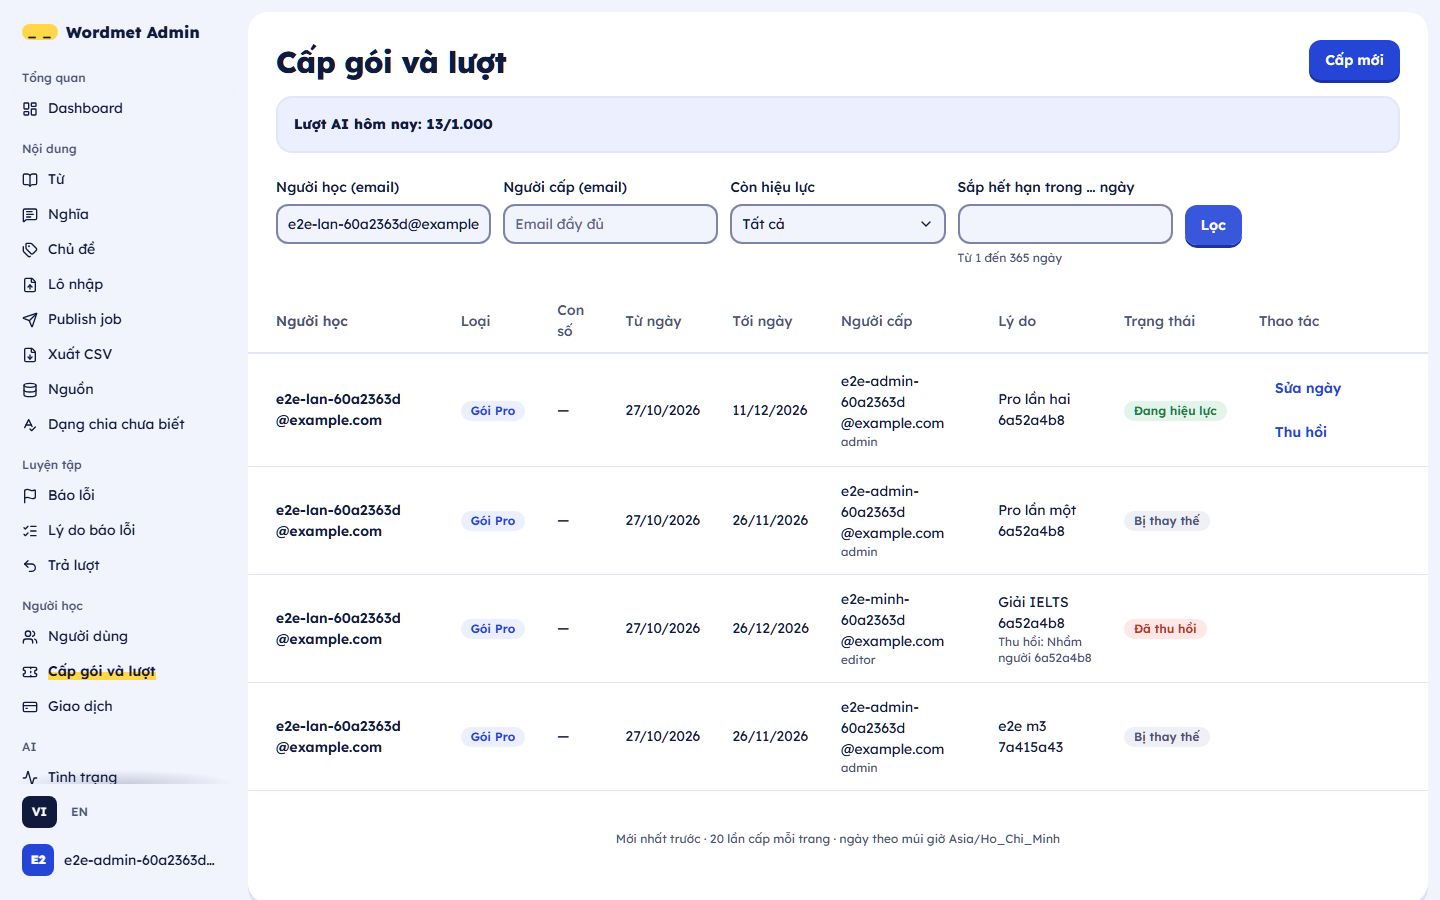
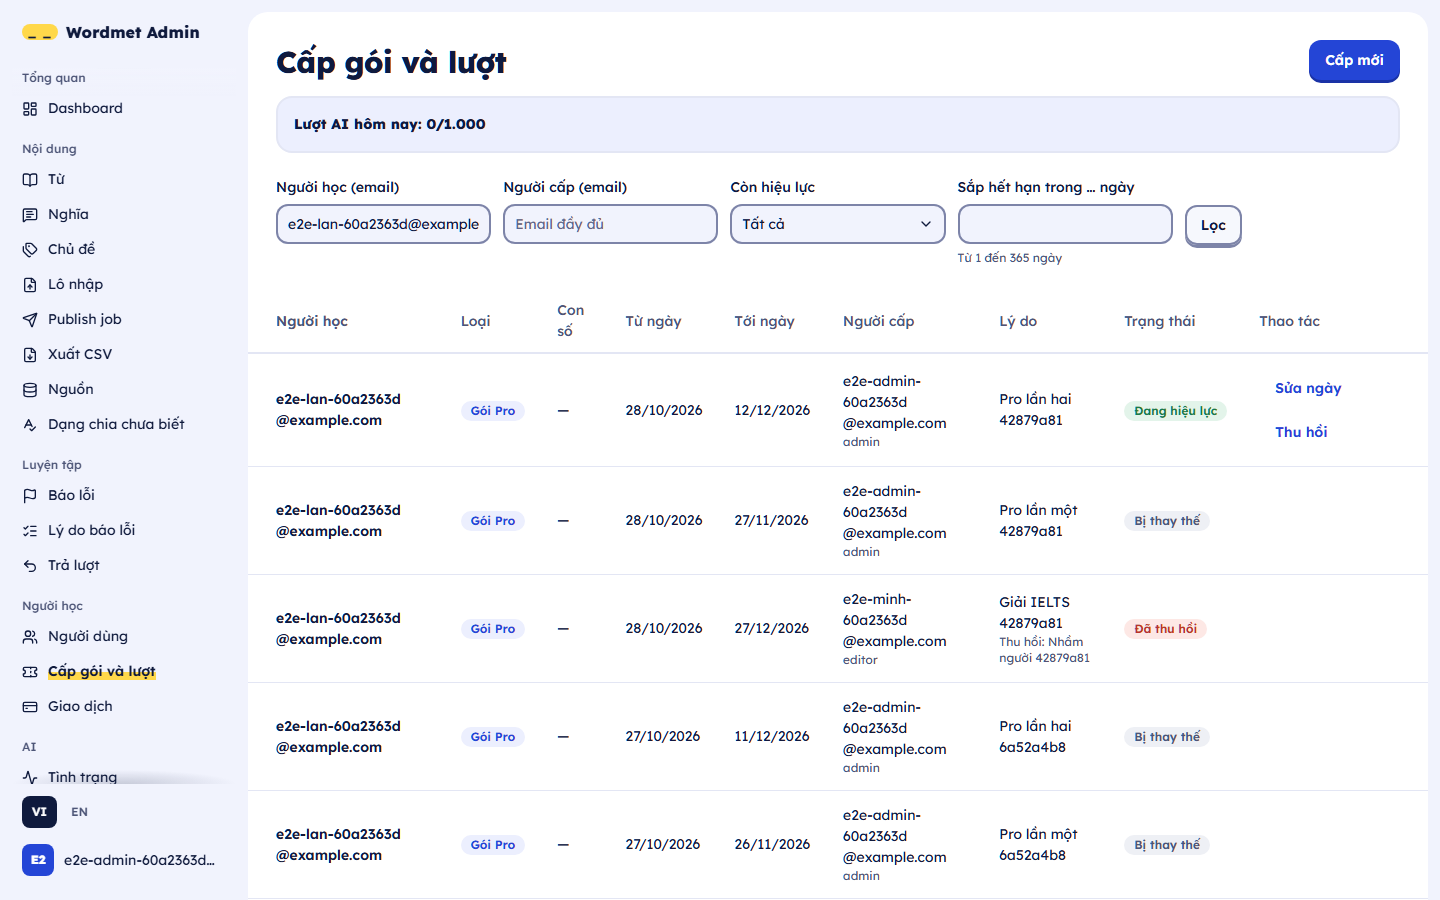
fix(admin): tidy the grants and users pages after the m4 review

diff --git a/apps/admin/src/features/entitlements/GrantsPage.test.tsx b/apps/admin/src/features/entitlements/GrantsPage.test.tsx
@@ -3,6 +3,7 @@ import userEvent from '@testing-library/user-event';
 import { describe, expect, it } from 'vitest';
 import vi from '../../../messages/vi.json';
 import { makeMe, problem, rateLimited, type Call } from '../../auth/test-support';
+import { vnDay } from './entitlements-api';
 import { ME_ADMIN, renderApp } from '../staff/test-utils';
 
 const t = vi.entitlements;
@@ -101,6 +102,34 @@ describe('grants list', { timeout: 20_000 }, () => {
     await userEvent.click(await screen.findByRole('button', { name: vi.common.loadMore }));
     expect((await screen.findAllByText('binh@example.com')).length).toBeGreaterThan(0);
     expect(r.count('GET', '/v1/admin/entitlements/grants?page_size=20&page_token=tok-2')).toBe(1);
+  });
+
+  it('review: [Lọc] is a secondary button, so [Cấp mới] stays the one primary action', async () => {
+    renderApp('/entitlements', { [LIST]: () => json(page([grant()])), [USAGE]: () => json(usage) });
+    const apply = await screen.findByRole('button', { name: t.filters.apply });
+    expect(apply.className).toContain('ring-border-strong');
+    expect(apply.className).not.toContain('text-on-primary');
+  });
+
+  it('review: opening and closing [Cấp mới] keeps the list filters in the URL', async () => {
+    const r = renderApp('/entitlements?active=false', { [LIST.replace('page_size=20', 'active=false&page_size=20')]: () => json(page([grant({ status: 'expired' })])), [USAGE]: () => json(usage) });
+    await userEvent.click((await screen.findAllByRole('button', { name: t.new.open }))[0]!);
+    const dialog = await screen.findByRole('dialog', { name: t.new.title });
+    expect(r.router.state.location.pathname).toBe('/entitlements/new');
+    expect(r.router.state.location.search).toBe('?active=false');
+    await userEvent.click(within(dialog).getByRole('button', { name: vi.common.cancel }));
+    await waitFor(() => expect(r.router.state.location.pathname).toBe('/entitlements'));
+    expect(r.router.state.location.search).toBe('?active=false');
+  });
+
+  it('review: when the AI uses of today fail to load, the error has [Thử lại] that asks again', async () => {
+    let fail = true;
+    const r = renderApp('/entitlements', { [LIST]: () => json(page([grant()])), [USAGE]: () => (fail ? problem(500, 'internal') : json(usage)) });
+    expect(await screen.findByText(t.aiTodayError)).toBeInTheDocument();
+    fail = false;
+    await userEvent.click(screen.getByRole('button', { name: vi.common.retry }));
+    expect(await screen.findByText('Lượt AI hôm nay: 812/1.000')).toBeInTheDocument();
+    expect(r.count('GET', '/v1/admin/entitlements/ai-usage')).toBe(2);
   });
 
   it('§6.11: an empty list says nothing was granted yet', async () => {
@@ -285,6 +314,19 @@ describe('edit-dates dialog', { timeout: 20_000 }, () => {
     await userEvent.click(within(dialog).getByRole('button', { name: t.editDates.confirm }));
     await waitFor(() => expect(calls(r.calls, 'PATCH', '/v1/admin/entitlements/grants/')).toHaveLength(1));
     expect(calls(r.calls, 'PATCH', '/v1/admin/entitlements/grants/')[0]!.body).toEqual({ starts_at: '2027-01-05T00:00:00+07:00', reason: 'Dời lịch' });
+  });
+
+  it('review: moving "Từ ngày" to today sends now, not 00:00, so the API start skew does not refuse it', async () => {
+    const scheduled = grant({ status: 'scheduled', starts_at: '2099-12-31T17:00:00.000Z', ends_at: '2100-01-31T17:00:00.000Z' });
+    const r = renderApp('/entitlements', { [LIST]: () => json(page([scheduled])), [PATCH(G1)]: () => json(scheduled), [USAGE]: () => json(usage) });
+    const dialog = await openEdit();
+    const before = Date.now();
+    fireEvent.change(within(dialog).getByLabelText(t.editDates.from), { target: { value: vnDay(new Date()) } });
+    await userEvent.type(within(dialog).getByLabelText(t.editDates.reason), 'Cho chạy ngay');
+    await userEvent.click(within(dialog).getByRole('button', { name: t.editDates.confirm }));
+    await waitFor(() => expect(calls(r.calls, 'PATCH', '/v1/admin/entitlements/grants/')).toHaveLength(1));
+    const sent = (calls(r.calls, 'PATCH', '/v1/admin/entitlements/grants/')[0]!.body as { starts_at: string }).starts_at;
+    expect(Math.abs(new Date(sent).getTime() - before)).toBeLessThan(60_000);
   });
 
   it('§6.11: 409 grant-not-active → "Lần cấp này đã thu hồi hoặc đã hết hạn."', async () => {

diff --git a/apps/admin/src/features/entitlements/GrantDialog.tsx b/apps/admin/src/features/entitlements/GrantDialog.tsx
@@ -1,7 +1,7 @@
 import { useQueryClient } from '@tanstack/react-query';
-import { useRef, useState, type FocusEvent, type FormEvent } from 'react';
+import { useRef, useState, type FocusEvent, type FormEvent, type KeyboardEvent } from 'react';
 import { flushSync } from 'react-dom';
-import { useNavigate } from 'react-router';
+import { useLocation, useNavigate } from 'react-router';
 import { useFormatter, useTranslations } from 'use-intl';
 import { useFocusFirstError, violationsToFields } from '../../api/field-errors';
 import { ApiError } from '../../api/problem';
@@ -24,6 +24,7 @@ import {
   lookupLearner,
   MAX_EMAIL,
   MAX_REASON,
+  MIN_EMAIL,
   startOfDay,
   vnDay,
   type CreateGrantBody,
@@ -69,6 +70,7 @@ export function GrantDialog() {
   const format = useFormatter();
   const api = useApi();
   const navigate = useNavigate();
+  const { search } = useLocation();
   const queryClient = useQueryClient();
   const canSetAi = useCan('settings.manage');
 
@@ -101,6 +103,10 @@ export function GrantDialog() {
   async function check() {
     if (trimmed === '') {
       setErrors((e) => ({ ...e, email: t('entitlements.new.emailRequired') }));
+      return;
+    }
+    if (trimmed.length < MIN_EMAIL) {
+      setErrors((e) => ({ ...e, email: t('entitlements.new.emailShort') }));
       return;
     }
     const asked = trimmed;
@@ -143,6 +149,13 @@ export function GrantDialog() {
     void check();
   }
 
+  /** [Cấp] is disabled until the email is confirmed, so the browser would ignore Enter: here it asks the lookup instead. */
+  function onEmailKeyDown(event: KeyboardEvent<HTMLDivElement>) {
+    if (event.key !== 'Enter' || verified || (event.target as HTMLElement).tagName !== 'INPUT') return;
+    event.preventDefault();
+    onCheckPress();
+  }
+
   function onCheckPress() {
     const last = lastLookup.current;
     if (checking || (last && last.email === trimmed && Date.now() - last.at < SAME_LOOKUP_MS)) return;
@@ -151,7 +164,7 @@ export function GrantDialog() {
 
   const dirty =
     email !== '' || kind !== 'plan' || from !== '' || to !== '' || reason !== '' || Object.values(limits).some((v) => v !== null && v !== undefined);
-  const requestClose = useDialogDirtyClose(dirty && !warned, () => void navigate('/entitlements'));
+  const requestClose = useDialogDirtyClose(dirty && !warned, () => void navigate(`/entitlements${search}`));
 
   const fingerprint = JSON.stringify({ id: verified?.id ?? null, kind, limits, from, to, reason, confirmed });
   const action = useSubmitAction(
@@ -165,7 +178,7 @@ export function GrantDialog() {
         return;
       }
       showToast(t('entitlements.new.done', { email: sentRef.current }));
-      void navigate('/entitlements');
+      void navigate(`/entitlements${search}`);
     },
   );
 
@@ -259,13 +272,13 @@ export function GrantDialog() {
         <div className="flex flex-col gap-4">
           <Banner variant="warning">{t('entitlements.new.notSupported')}</Banner>
           <div className="flex justify-end">
-            <Button onPress={() => void navigate('/entitlements')}>{t('entitlements.new.understood')}</Button>
+            <Button onPress={() => void navigate(`/entitlements${search}`)}>{t('entitlements.new.understood')}</Button>
           </div>
         </div>
       ) : (
       <form ref={formRef} noValidate onSubmit={submit} className="flex flex-col gap-4">
         {banner && <Banner variant="error" code={banner.code}>{banner.message}</Banner>}
-        <div className="flex items-start gap-2" onBlur={onEmailBlur}>
+        <div className="flex items-start gap-2" onBlur={onEmailBlur} onKeyDown={onEmailKeyDown}>
           <TextField
             id="email"
             label={t('entitlements.new.email')}

diff --git a/apps/admin/src/features/entitlements/GrantsPage.tsx b/apps/admin/src/features/entitlements/GrantsPage.tsx
@@ -1,6 +1,6 @@
 import { useInfiniteQuery, useQuery, useQueryClient } from '@tanstack/react-query';
 import { useState, type FormEvent, type ReactNode } from 'react';
-import { useMatch, useNavigate } from 'react-router';
+import { useLocation, useMatch, useNavigate } from 'react-router';
 import { useFormatter, useTranslations } from 'use-intl';
 import { useUrlFilters } from '../../api/use-url-filters';
 import { userLabel } from '../../api/user-ref';
@@ -53,6 +53,7 @@ export function GrantsPage() {
   const queryClient = useQueryClient();
   const format = useGrantFormat();
   const navigate = useNavigate();
+  const { search } = useLocation();
   // `/entitlements/new` keeps the list and opens the form over it.
   const isNew = useMatch('/entitlements/new') !== null;
   const [filters, setFilters] = useUrlFilters(FILTERS);
@@ -150,7 +151,7 @@ export function GrantsPage() {
   return (
     <div className="flex flex-col gap-6">
       <PageActions>
-        <Button onPress={() => void navigate('/entitlements/new')}>{t('entitlements.new.open')}</Button>
+        <Button onPress={() => void navigate(`/entitlements/new${search}`)}>{t('entitlements.new.open')}</Button>
       </PageActions>
       <AiTodayBlock />
       <form onSubmit={apply} noValidate className="grid gap-3 shell:grid-cols-5 shell:items-start">
@@ -194,7 +195,7 @@ export function GrantsPage() {
           description={t('entitlements.filters.expiringHint')}
           error={daysInvalid ? t('entitlements.filters.expiringHint') : undefined}
         />
-        <Button type="submit" className="w-fit shell:mt-7">
+        <Button type="submit" variant="secondary" className="w-fit shell:mt-7">
           {t('entitlements.filters.apply')}
         </Button>
       </form>
@@ -208,7 +209,7 @@ export function GrantsPage() {
         onRetry={() => void list.refetch()}
       />
       {!list.isPending && !list.isError && rows.length === 0 && !filtered && (
-        <Button variant="secondary" className="mx-auto w-fit" onPress={() => void navigate('/entitlements/new')}>
+        <Button variant="secondary" className="mx-auto w-fit" onPress={() => void navigate(`/entitlements/new${search}`)}>
           {t('entitlements.new.open')}
         </Button>
       )}
@@ -246,12 +247,22 @@ export function GrantsPage() {
 /** A/78 head, admin only: today's system AI uses. `ai-usage` needs `settings.manage`, so an editor sends no request at all. */
 function AiTodayBlock() {
   const t = useTranslations('entitlements');
+  const tc = useTranslations();
   const api = useApi();
   const format = useFormatter();
   const allowed = useCan('settings.manage');
   const usage = useQuery({ queryKey: ['entitlements', 'ai-usage'], queryFn: () => getAiUsage(api), enabled: allowed });
   if (!allowed || usage.isPending) return null;
-  if (!usage.data) return <Banner variant="error">{t('aiTodayError')}</Banner>;
+  if (!usage.data) {
+    return (
+      <Banner
+        variant="error"
+        action={<Button variant="secondary" isPending={usage.isFetching} onPress={() => void usage.refetch()}>{tc('common.retry')}</Button>}
+      >
+        {t('aiTodayError')}
+      </Banner>
+    );
+  }
   return (
     <div role="status" className={`${panel} ${usage.data.alert_reached ? 'bg-accent-soft' : 'bg-primary-soft'}`}>
       <p className="text-ui font-extrabold text-ink">{t('aiToday', { used: format.number(usage.data.used), cap: format.number(usage.data.cap) })}</p>

diff --git a/apps/admin/e2e-real/m4.real.spec.ts b/apps/admin/e2e-real/m4.real.spec.ts
@@ -4,7 +4,7 @@ import { readFileSync } from 'node:fs';
 import vi from '../messages/vi.json' with { type: 'json' };
 import type { RealState } from './global-setup';
 import { STATE_FILE } from './global-setup';
-import { API, loginToken } from './support/api';
+import { API, loginToken, retryAfterSeconds } from './support/api';
 import { signIn } from './support/sign-in';
 
 /**
@@ -77,12 +77,20 @@ test('the admin finds Khoa by email, locks him with a reason (he cannot log in),
   await expect(panel.getByText(u.detail.lockReason.replace('{reason}', reason))).toBeVisible();
 
   // The API refuses the locked account. The unlock below, followed by a good login with the same password, rules out a wrong password.
-  const refused = await fetch(`${API}/v1/auth/login`, {
-    method: 'POST',
-    headers: { 'Content-Type': 'application/json', 'X-CSRF-Protection': '1' },
-    body: JSON.stringify({ email: state.khoa.email, password: state.khoa.password, client: 'web', device_label: 'e2e-real' }),
-  });
-  expect(refused.status).not.toBe(200);
+  const tryLogin = () =>
+    fetch(`${API}/v1/auth/login`, {
+      method: 'POST',
+      headers: { 'Content-Type': 'application/json', 'X-CSRF-Protection': '1' },
+      body: JSON.stringify({ email: state.khoa.email, password: state.khoa.password, client: 'web', device_label: 'e2e-real' }),
+    });
+  let refused = await tryLogin();
+  if (refused.status === 429) {
+    // `auth.login.ip` (20 a minute) answered, not the account check: wait it out and ask once more.
+    await new Promise((resolve) => setTimeout(resolve, (retryAfterSeconds(refused.headers.get('retry-after')) + 1) * 1000));
+    refused = await tryLogin();
+  }
+  expect(refused.status).toBe(403);
+  expect(((await refused.json()) as { type: string }).type).toMatch(/account-locked$/);
 
   await panel.getByRole('button', { name: u.detail.unlock }).click();
   await expect(panel.getByRole('button', { name: u.detail.lock })).toBeVisible();

diff --git a/apps/admin/src/features/entitlements/GrantDialog.test.tsx b/apps/admin/src/features/entitlements/GrantDialog.test.tsx
@@ -112,6 +112,29 @@ describe('new grant dialog', { timeout: 20_000 }, () => {
     expect(submit()).toBeDisabled();
   });
 
+  it('review: an email under 3 characters is not sent (the API needs 3) and shows a hint', async () => {
+    const r = renderApp('/entitlements/new', base);
+    await userEvent.type(await screen.findByLabelText(n.email), 'ab');
+    await userEvent.click(screen.getByRole('button', { name: n.check }));
+    expect(await screen.findByText(n.emailShort)).toBeInTheDocument();
+    expect(calls(r.calls, 'GET', '/v1/admin/entitlements/lookup')).toHaveLength(0);
+  });
+
+  it('review: Enter in the email box starts the lookup when nothing is verified yet', async () => {
+    const r = renderApp('/entitlements/new', { ...base, [lookupPath('lan@example.com')]: () => json(found()) });
+    await userEvent.type(await screen.findByLabelText(n.email), 'lan@example.com{Enter}');
+    expect(await screen.findByText(confirmedText)).toBeInTheDocument();
+    expect(calls(r.calls, 'GET', '/v1/admin/entitlements/lookup')).toHaveLength(1);
+    expect(calls(r.calls, 'POST', '/v1/admin/entitlements/grants')).toHaveLength(0);
+  });
+
+  it('review: closing the dialog goes back to the list with its filters', async () => {
+    const r = renderApp('/entitlements/new?active=false', base);
+    await userEvent.click(await screen.findByRole('button', { name: vi.common.cancel }));
+    await waitFor(() => expect(r.router.state.location.pathname).toBe('/entitlements'));
+    expect(r.router.state.location.search).toBe('?active=false');
+  });
+
   it('§6.11: a Pro grant starting now shows the replace note before sending; a future start hides it', async () => {
     renderApp('/entitlements/new', base);
     expect(await screen.findByText(n.note)).toBeInTheDocument();

diff --git a/apps/admin/src/features/users/UsersPage.tsx b/apps/admin/src/features/users/UsersPage.tsx
@@ -14,7 +14,7 @@ import { Select } from '../../ui/Select';
 import { TextField } from '../../ui/TextField';
 import { useRetained } from '../../ui/use-retained';
 import { UserDetail } from './UserDetail';
-import { codePoints, listUsers, MAX_SEARCH, MIN_SEARCH, normalizeSearch, type AdminUser, type UserStatus } from './users-api';
+import { codePoints, fullName, listUsers, MAX_SEARCH, MIN_SEARCH, normalizeSearch, STATUS_TONE, type AdminUser, type UserStatus } from './users-api';
 
 const STATUSES: UserStatus[] = ['active', 'locked'];
 const SEARCH_DELAY_MS = 300;
@@ -22,12 +22,6 @@ const FILTERS = {
   q: { default: '', valid: (v: string) => codePoints(v) >= MIN_SEARCH && codePoints(v) <= MAX_SEARCH && v === normalizeSearch(v) },
   status: { default: 'all', valid: (v: string) => (STATUSES as string[]).includes(v) },
 };
-
-export const STATUS_TONE: Record<UserStatus, 'success' | 'danger'> = { active: 'success', locked: 'danger' };
-
-/** "Nguyễn Lan": the family name first, as the API searches it. */
-export const fullName = (u: { given_name: string | null; family_name: string | null }) =>
-  [u.family_name, u.given_name].filter(Boolean).join(' ');
 
 /** A/71 `/users` (admin only, `roles.manage`): search by 2+ characters, filter by status, 20 per page; a row opens its detail (A/72). */
 export function UsersPage() {

diff --git a/apps/admin/src/features/entitlements/entitlements-api.ts b/apps/admin/src/features/entitlements/entitlements-api.ts
@@ -51,6 +51,8 @@ export type GrantFilters = { user_email: string; granted_by_email: string; activ
 
 export const PAGE_SIZE = 20;
 export const MAX_EMAIL = 320;
+/** The lookup endpoint rejects an `email` shorter than this. */
+export const MIN_EMAIL = 3;
 export const MAX_REASON = 300;
 export const MAX_EXPIRING_DAYS = 365;
 
@@ -124,6 +126,9 @@ export const lastDay = (endsAt: string): string => vnDay(new Date(new Date(endsA
 
 /** The start instant of a Vietnam day. */
 export const startOfDay = (day: string): string => `${day}T00:00:00+07:00`;
+
+/** A start the API accepts for `day`: today starts now (00:00 would be older than its 5-minute start skew), any other day at 00:00. */
+export const startInstant = (day: string): string => (day === vnDay(new Date()) ? new Date().toISOString() : startOfDay(day));
 
 /** The instant a grant whose last day is `day` ends: midnight after it. */
 export function endAfterDay(day: string): string {

diff --git a/apps/admin/src/features/entitlements/EditDatesDialog.tsx b/apps/admin/src/features/entitlements/EditDatesDialog.tsx
@@ -13,7 +13,7 @@ import {
   endAfterDay,
   lastDay,
   MAX_REASON,
-  startOfDay,
+  startInstant,
   updateGrantDates,
   vnDay,
   type AdminGrant,
@@ -53,7 +53,7 @@ export function EditDatesDialog({ grant, onClose, onSaved }: { grant: AdminGrant
   function submit() {
     setError(null);
     const body: Partial<GrantDatesBody> = {};
-    if (!started && from !== '' && from !== initialFrom) body.starts_at = startOfDay(from);
+    if (!started && from !== '' && from !== initialFrom) body.starts_at = startInstant(from);
     if (to !== '' && to !== initialTo) body.ends_at = endAfterDay(to);
     const text = reason.trim();
     const next: typeof problems = {};

diff --git a/apps/admin/src/features/users/users-api.ts b/apps/admin/src/features/users/users-api.ts
@@ -65,3 +65,9 @@ export function lockUser(api: ApiClient, id: string, reason: string): Promise<Ad
 export function unlockUser(api: ApiClient, id: string): Promise<AdminUserDetail> {
   return api.post(`/v1/admin/users/${id}/unlock`);
 }
+
+export const STATUS_TONE: Record<UserStatus, 'success' | 'danger'> = { active: 'success', locked: 'danger' };
+
+/** "Nguyễn Lan": the family name first, as the API searches it. */
+export const fullName = (u: { given_name: string | null; family_name: string | null }) =>
+  [u.family_name, u.given_name].filter(Boolean).join(' ');

diff --git a/apps/admin/src/features/users/UserDetail.tsx b/apps/admin/src/features/users/UserDetail.tsx
@@ -14,8 +14,7 @@ import { PanelBody, PanelFooter, PanelHead } from '../../ui/DetailPanel';
 import { ListState } from '../../ui/ListState';
 import { showToast } from '../../ui/Toast';
 import { LockDialog } from './LockDialog';
-import { STATUS_TONE } from './UsersPage';
-import { getUser, unlockUser, UUID, type AdminUserDetail } from './users-api';
+import { getUser, STATUS_TONE, unlockUser, UUID, type AdminUserDetail } from './users-api';
 
 const userKey = (id: string) => ['user', id] as const;
 

diff --git a/docs/deliveries/giao-dien-admin.md b/docs/deliveries/giao-dien-admin.md
@@ -415,6 +415,17 @@ Khác biệt nhìn thấy ở ảnh thật (chưa mở Figma để so từng đi
   "Hãy nhập email rồi kiểm.", "Loại", ba nhãn con số, các lỗi con số / ngày ("Ngày bắt đầu không được ở quá khứ.", "Hãy chọn ngày kết thúc.", "Ngày kết thúc phải sau hoặc bằng ngày bắt đầu."),
   [Cấp], "Đã cấp cho {email}.", [Đã hiểu]. Dải cảnh báo `not_supported` dùng kiểu mới `warning` của `Banner` (thêm ở Task 35), không phải toast.
 
+## Sau review cuối
+
+- Test khóa đăng nhập trên stack thật nay đòi đúng 403 và `type` kết thúc `account-locked` (429 của `auth.login.ip` thì chờ `Retry-After` rồi hỏi lại một lần), không còn chỉ "khác 200".
+- [Lọc] ở Cấp gói và lượt là nút phụ (`secondary`), để [Cấp mới] là nút chính duy nhất; Người dùng không có nút Lọc. Hoàn tiền (M3) vẫn để [Lọc] là nút chính vì trang đó không có nút chính nào khác. Ảnh a78 chụp lại trên stack thật.
+- Mở và đóng [Cấp mới] giữ chuỗi bộ lọc trên URL (`/entitlements/new?...` rồi quay lại `/entitlements?...`).
+- Ô email của [Cấp mới] không gửi tra cứu khi dưới 3 ký tự (API đòi tối thiểu 3); hiện gợi ý "Nhập ít nhất 3 ký tự của email." (chữ mới, có cả bản tiếng Anh).
+- Enter trong ô email khi chưa xác nhận thì chạy tra cứu (nút [Cấp] đang tắt nên trình duyệt không tự gửi form).
+- Sửa ngày: đổi "Từ ngày" của lần cấp chưa bắt đầu sang hôm nay gửi thời điểm hiện tại thay vì 00:00 (API từ chối mốc cũ hơn 5 phút).
+- Khối "Lượt AI hôm nay" có [Thử lại] khi lỗi.
+- `STATUS_TONE` và `fullName` chuyển sang `users-api.ts`, hết import vòng giữa `UsersPage` và `UserDetail`.
+
 ---
 
 # Đợt giao diện admin — M5 as-built (27/10/2026)
